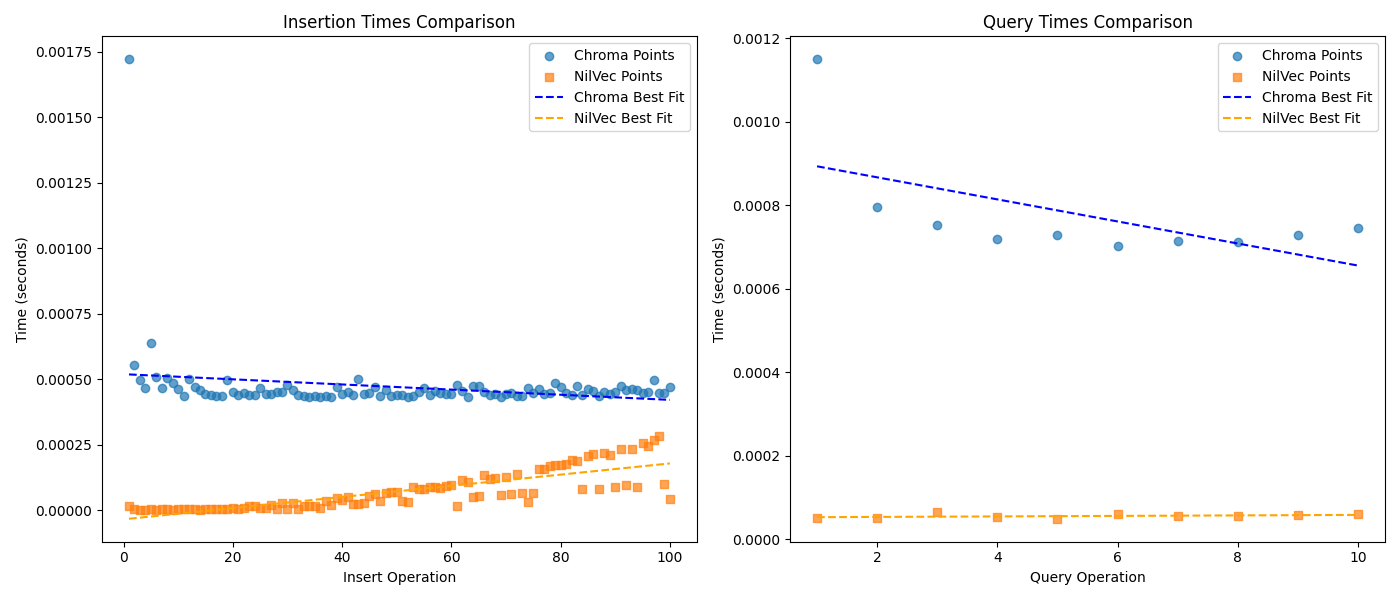
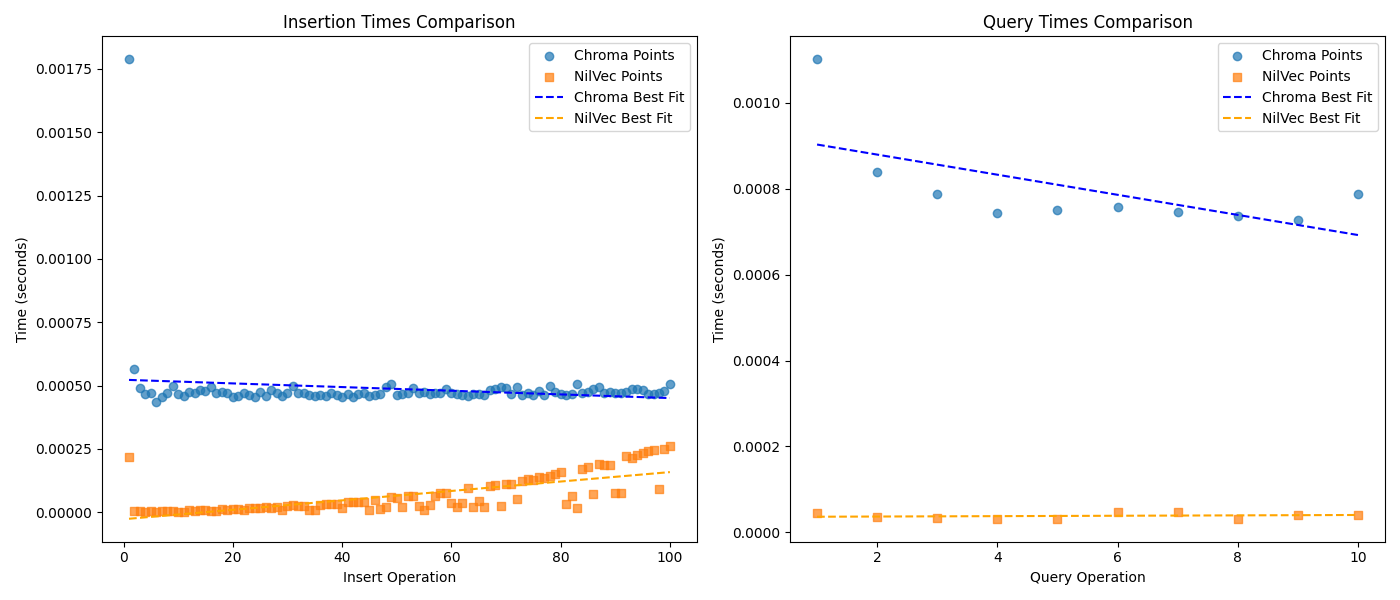
//

diff --git a/src/hnsw.rs b/src/hnsw.rs
@@ -895,17 +895,53 @@ impl PyHNSW {
     /// Search for the k nearest neighbors.
     ///
     /// Returns a list of tuples `(distance, vector)`.
-    pub fn search(&self, query: Vec<f64>, k: Option<usize>) -> PyResult<Vec<(f64, Vec<f64>)>> {
+    #[pyo3(signature = (query, k=None, filter=None))]
+    pub fn search(
+        &self,
+        py: Python,
+        query: Vec<f64>,
+        k: Option<usize>,
+        filter: Option<(String, PyObject)>,
+    ) -> PyResult<Vec<(f64, Vec<f64>)>> {
         let k = k.unwrap_or(1);
-        self.inner
-            .search(&query, Some(k), None)
-            .map(|candidates| {
-                candidates
-                    .into_iter()
-                    .map(|c| (c.distance.into_inner(), self.inner.vector_from_id(c.id)))
-                    .collect()
-            })
-            .map_err(|e| PyValueError::new_err(format!("Search error: {:?}", e)))
+        let candidates = if let Some((attribute, expected_value)) = filter {
+            // Ensure that a schema was set when the index was created.
+            if self.inner.schema.is_none() {
+                return Err(PyValueError::new_err(
+                    "No schema provided in HNSW instance; cannot use metadata filtering",
+                ));
+            }
+            // Convert the expected value from Python into a Metadata value.
+            let expected_md = if let Ok(s) = expected_value.extract::<String>(py) {
+                Metadata::Str(s)
+            } else if let Ok(i) = expected_value.extract::<i64>(py) {
+                Metadata::Int(i)
+            } else if let Ok(f) = expected_value.extract::<f64>(py) {
+                Metadata::Float(f)
+            } else {
+                return Err(PyValueError::new_err(
+                    "Unsupported type for metadata filter",
+                ));
+            };
+
+            // Create a Filter that checks for equality.
+            let filter_obj = Filter {
+                attribute,
+                condition: Arc::new(move |meta: &Metadata| meta == &expected_md),
+            };
+            self.inner
+                .search(&query, Some(k), Some(&filter_obj))
+                .map_err(|e| PyValueError::new_err(format!("Search error: {:?}", e)))?
+        } else {
+            self.inner
+                .search(&query, Some(k), None)
+                .map_err(|e| PyValueError::new_err(format!("Search error: {:?}", e)))?
+        };
+
+        Ok(candidates
+            .into_iter()
+            .map(|c| (c.distance.into_inner(), self.inner.vector_from_id(c.id)))
+            .collect())
     }
 
     pub fn create(

diff --git a/main.py b/main.py
@@ -78,17 +78,20 @@ for i in range(num_inserts):
     nilvec_insert_times.append(elapsed)
     print(f"[NilVec] Inserted vector {i+1}/{num_inserts} in {elapsed:.4f} seconds.")
 
-# --- Query Timing for NilVec ---
+# --- Query Timing for NilVec with metadata filtering ---
 nilvec_query_times = []
-print("\nNilVec: Running search queries:")
+print("\nNilVec: Running search queries with metadata filtering:")
 for i in range(num_queries):
     query = [random.random() for _ in range(dim)]
+    # Choose a random category filter for this query.
+    filter_category = random.choice(categories)
 
     start_time = time.perf_counter()
-    results = hnsw.search(query, 5)
+    # The third parameter is the filter tuple (attribute, value)
+    results = hnsw.search(query, 5, ("category", filter_category))
     elapsed = time.perf_counter() - start_time
     nilvec_query_times.append(elapsed)
-    print(f"[NilVec] Query {i+1}/{num_queries} took {elapsed:.4f} seconds, returned {len(results)} results.")
+    print(f"[NilVec] Query {i+1}/{num_queries} (where category = '{filter_category}') took {elapsed:.4f} seconds, returned {len(results)} results.")
 
 # ------------------------------
 # Performance Improvement Calculation
